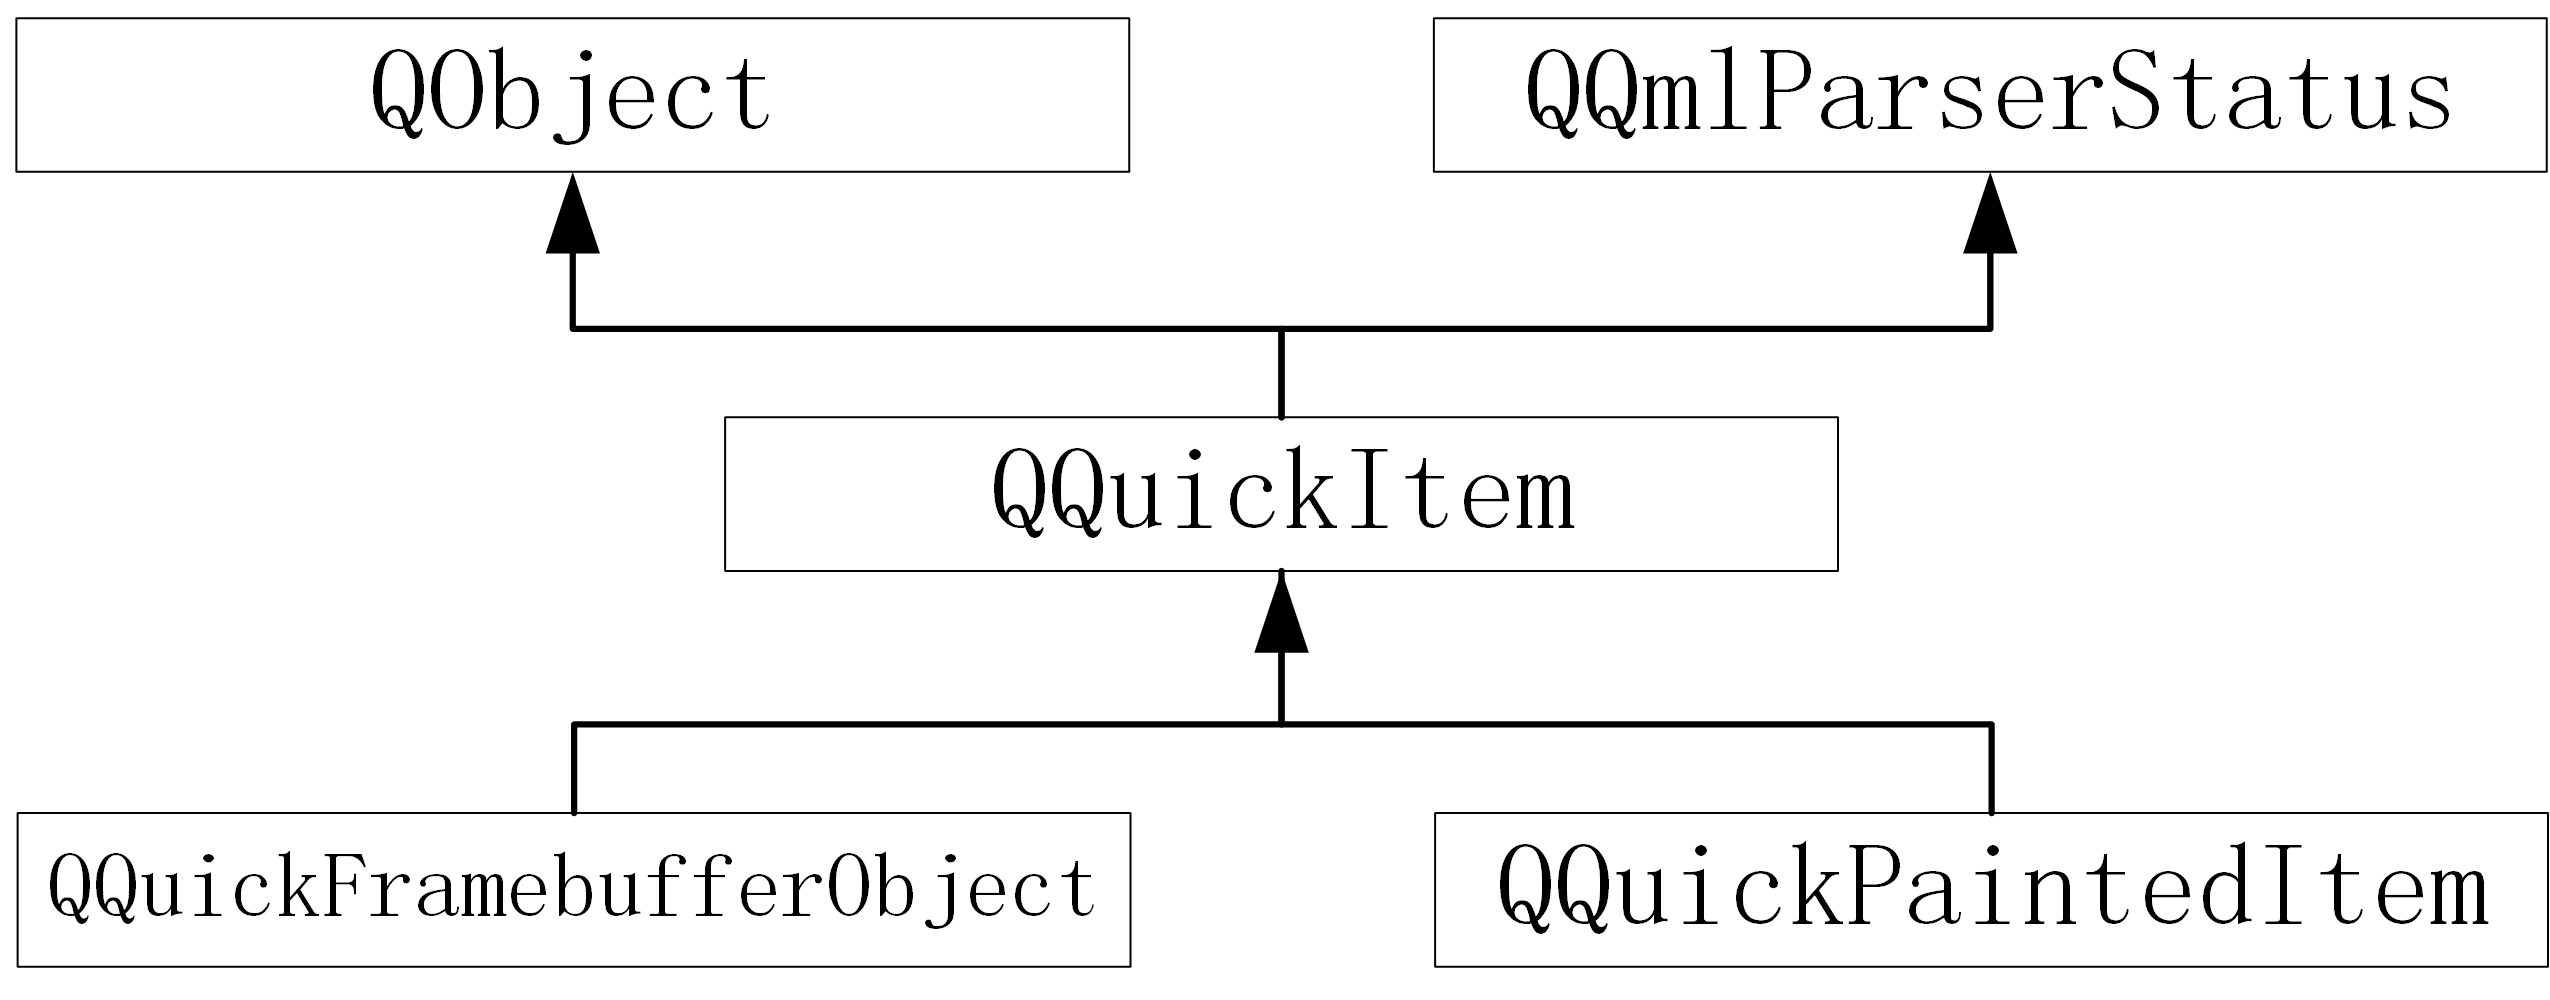
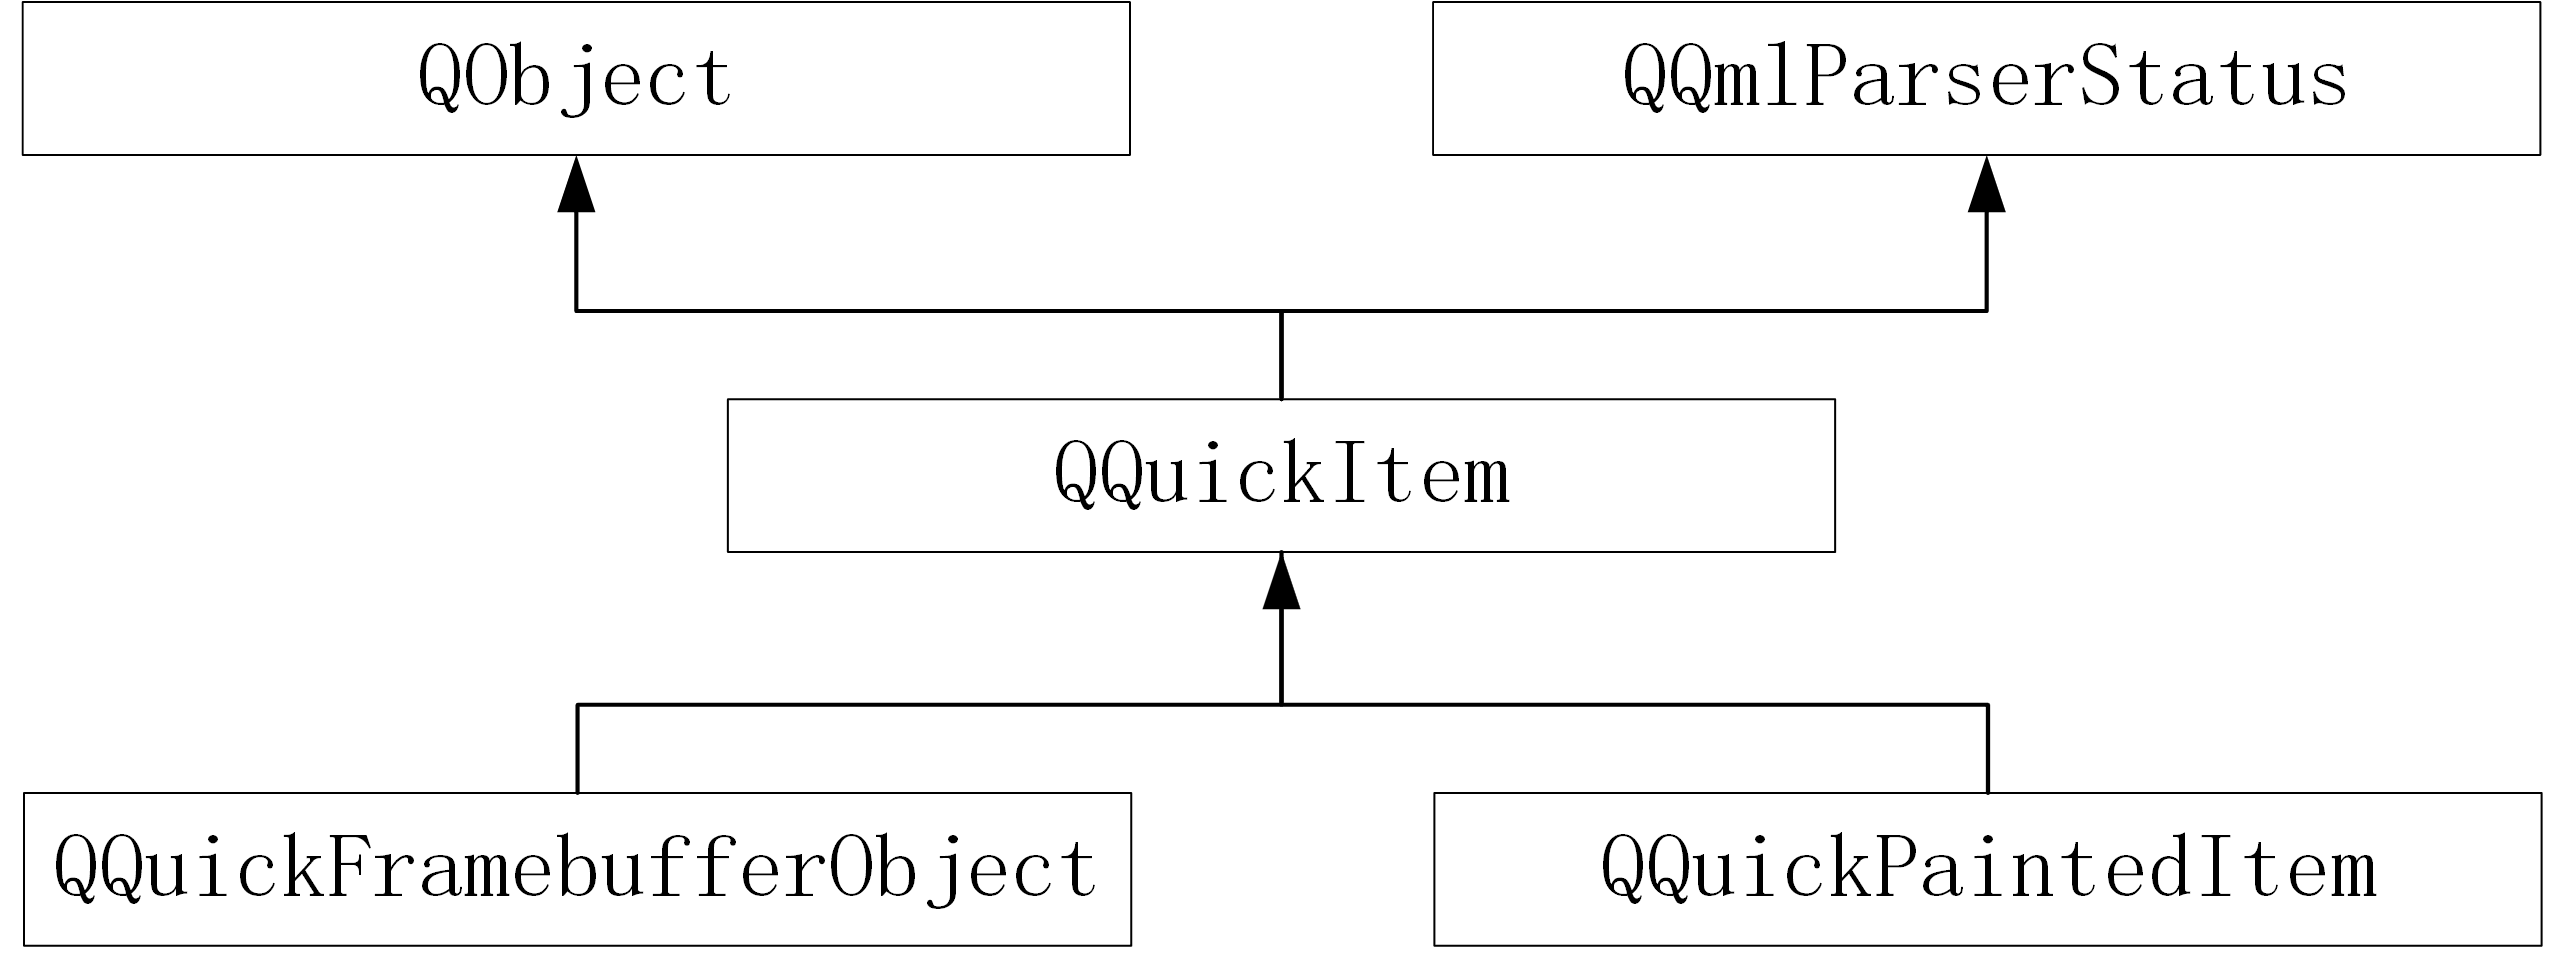
+little change

diff --git a/TheBook/chapter01/directdrawbyopengl.tex b/TheBook/chapter01/directdrawbyopengl.tex
@@ -31,7 +31,8 @@ Qt Quick只是导出Qt C{\sourcefonttwo{}+}{\sourcefonttwo{}+}的一套接口规
 比如实现一个鼠标监视器，那么只需要继承自QQuickItem；
 
 \item 如果读者需要的组件需要渲染，
-那么需要继承自QQuickItem，并在构造函数中设置TODO；
+那么需要继承自QQuickItem，并在构造函数中设置
+QQuickItem::ItemHasContents标志位；
 
 \item 如果读者希望使用QPainter实现渲染，
 那么需要继承自QQuickPaintedItem；
@@ -41,12 +42,17 @@ Qt Quick只是导出Qt C{\sourcefonttwo{}+}{\sourcefonttwo{}+}的一套接口规
 
 \end{itemize}
 
+如\figurename\ \ref{p000010}
+，列出了C{\sourcefonttwo{}+}{\sourcefonttwo{}+}导出Qt Quick基类继承关系图。
+
+
+
 %begin图片
 \begin{figure}[htb] %浮动体 here and top ...
 %there must use marginnote not use marginpar ...
 \marginnote{\fbox{\footnotesize{\figurename\ \ref{p000010}}}}\centering %中心对齐
 \includegraphics[width=0.95\textwidth]{chapter01/images/qtquick_item.png} %图片路径
-\caption{QQuickItem继承关系图} %标题
+\caption{C{\sourcefonttwo{}+}{\sourcefonttwo{}+}导出Qt Quick所需基类} %标题
 \label{p000010} %索引
 \end{figure}
 %end图片
